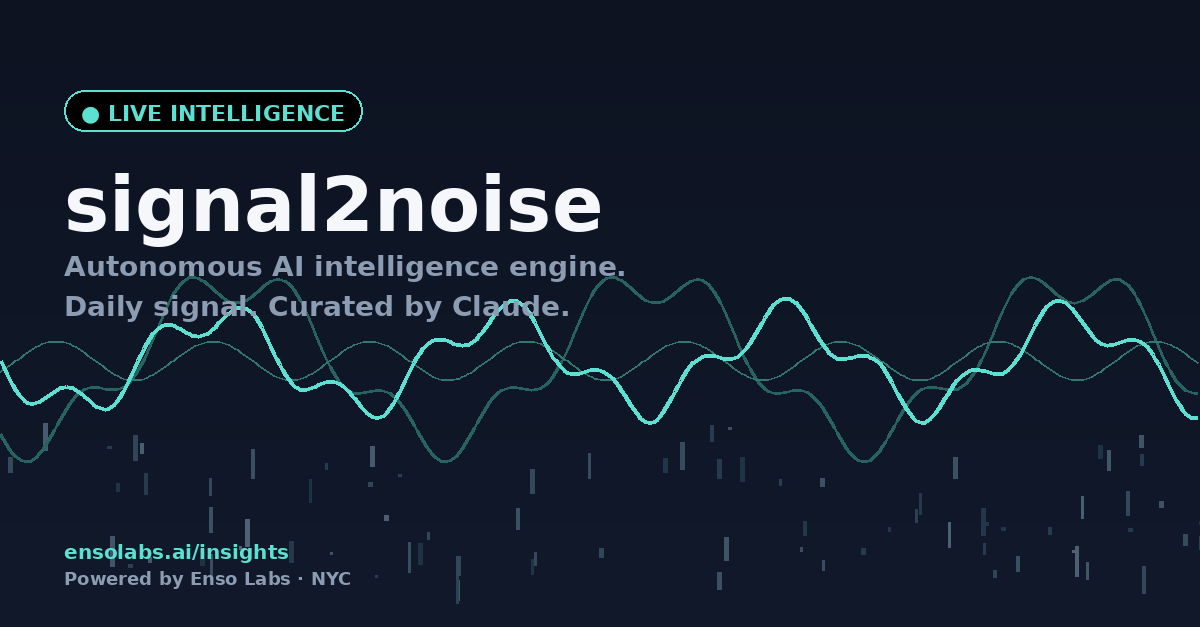
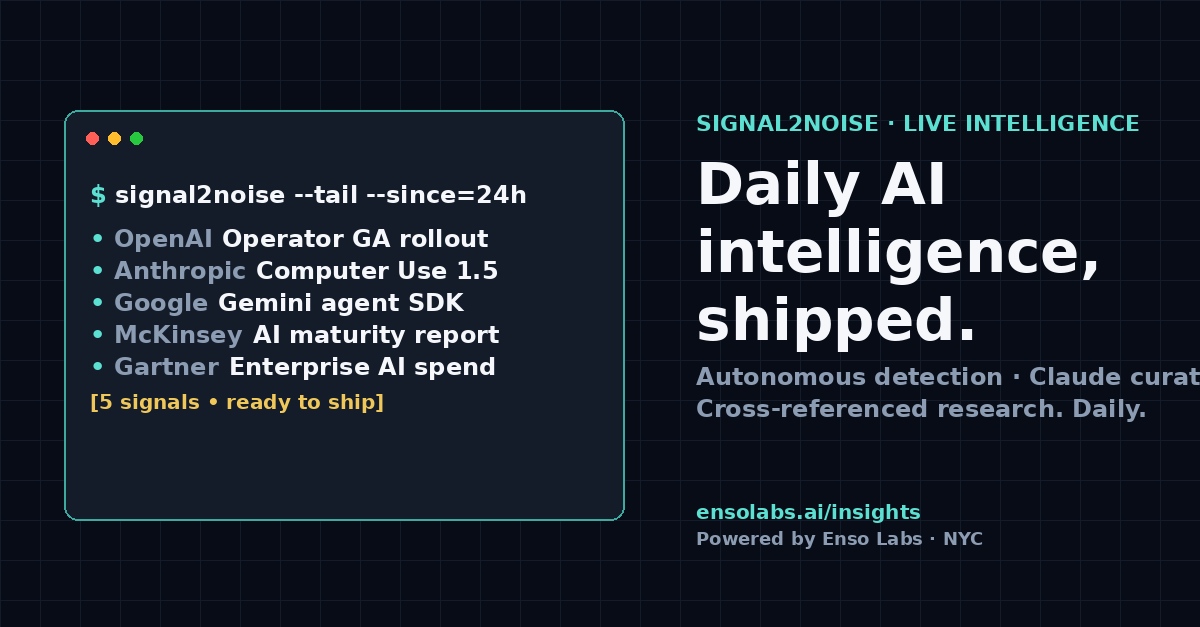
Rewrite Notion hackathon article with real career agent architecture — 5 tools, two-model pipeline, source tiers

diff --git a/lib/insights.ts b/lib/insights.ts
@@ -13,18 +13,30 @@ export type Insight = {
 export const INSIGHTS: Insight[] = [
   {
     slug: 'notion-hackathon-agent-distribution-problem',
-    title: 'We Built a Research Agent at Notion HQ. The Hardest Part Wasn\'t the AI.',
-    dek: 'At Notion\'s Developer Platform Hackathon, every team had access to the same models. The teams that won solved the distribution problem: getting intelligence to where people already work.',
+    title: 'We Built a Career Agent at Notion HQ in 24 Hours. Here\'s the Architecture.',
+    dek: 'Five Notion Worker tools, a two-model AI pipeline, and a source-tier scoring system — shipped at the Notion Developer Platform Hackathon during SF AI Week.',
     pillar: 'Build',
     date: '2026-05-19',
-    readingMinutes: 5,
+    readingMinutes: 6,
     body: [
-      'This weekend we were at Notion HQ in San Francisco for their Developer Platform Hackathon — two days of building on their new developer primitives with some of the sharpest agentic AI builders in the Bay Area. We shipped a research intelligence agent that syncs real-time market signals directly into Notion workspaces. No infrastructure to maintain, no separate dashboard to check. The intelligence just shows up where your team already works.',
-      'The surprise was not technical difficulty. The models are good enough. The APIs are clean. Notion\'s new platform removes the infrastructure barrier entirely — CLI plus your idea equals shipping. The surprise was how many teams hit the same wall we see in enterprise deployments: **the gap between "we have an AI tool" and "our team actually uses it" is a distribution problem, not a model problem.**',
-      'Every enterprise we work with has this pattern. They build a beautiful AI prototype. It works in a demo. Then adoption flatlines because the output lives in a separate tool, a separate tab, a separate workflow. The humans who are supposed to benefit from the intelligence never form the habit of checking it — because it is not where they already are.',
-      'The teams at the hackathon that built the most compelling projects all solved this the same way: they put the output inside the tool the user already had open. Not "go check the AI dashboard." Not "here\'s a link to the results." The intelligence appears in the workspace, in context, at the moment it is useful.',
-      'This is the thesis behind signal2noise — our daily AI market intelligence platform at signals.ensolabs.ai. We do not ask people to check another tool. We deliver signals where they already work. The Notion integration we built this weekend is the next step: the same intelligence, delivered directly into workspace pages your team reads every morning.',
-      'The pattern generalizes beyond Notion. For any enterprise AI deployment, the adoption question is not "is the model good enough?" It is "does the output show up where the human already is?" If the answer is no, adoption will fail regardless of model quality. **Distribution is the product.**',
+      'Last weekend we were at Notion HQ on Annie Street in San Francisco for their first Developer Platform Hackathon — two days of building on Notion Workers with some of the sharpest agentic AI builders in the Bay Area. We shipped a production-grade career intelligence agent: five tools, 487 lines of TypeScript, a full pipeline from job parsing to AI-tailored resume generation. The project is live on GitHub at github.com/nycsav/notion-career-agent.',
+      '## The Problem We Solved',
+      'Job seekers submit an average of 16 applications per week but spend less than 30 minutes customizing each one. Tailored resumes are 61% more likely to land interviews, but deep customization does not scale with manual effort. The existing tools are either spam cannons or glorified spreadsheets. We built a system that does the intelligence work — scanning, scoring, tailoring — while keeping the human in the loop for every decision that matters.',
+      '## Five Tools, One Pipeline',
+      'The career agent runs entirely inside a Notion workspace using Workers — sandboxed TypeScript functions that Notion executes on their infrastructure. No servers to manage, no deployment pipelines to maintain. We built five tools that chain together into an end-to-end career pipeline:',
+      '**scanJobs** parses job listings from LinkedIn email notifications, extracts structured data (title, company, location, salary, requirements), and scores each role against the user\'s career profile using Claude Haiku. Every job gets a match score from 0 to 100 with a written explanation of why it does or does not fit. Jobs scoring 75+ get flagged for action.',
+      '**tailorResume** is the heavy lifter. Give it a job listing and a base resume, and it generates an ATS-optimized resume and cover letter using Claude Sonnet — the stronger model, because resume quality directly affects conversion. It extracts and maps ATS keywords from the listing, reframes existing experience to match the role, and returns everything as structured data ready to save as linked Notion pages.',
+      '**getCareerInsight** turns the agent into a strategic career advisor. Salary negotiation data, interview prep, company research — direct and actionable, no filler. We used Haiku here because speed matters more than depth for quick Q&A.',
+      '**configureAgent** lets the user set automation preferences: copilot (suggestions only), autopilot (acts with confirmation), or autonomous (full auto). You configure scan cadence, match threshold, active job boards, notification channels, target roles, locations, and salary minimum. The agent adapts its behavior to your risk tolerance.',
+      '**getAgentStatus** provides pipeline analytics — how many jobs scanned, scored, applied to, interviewing, offered, rejected — filtered by time range. It is the control panel for understanding whether your job search machine is actually working.',
+      '## The Two-Model Architecture',
+      'We deliberately split the AI work across two Claude models. Haiku handles the high-volume, speed-sensitive operations: job scoring, career Q&A, and classification. Sonnet handles the high-stakes generation work: resume tailoring and cover letters. This is not about cost optimization — it is about matching model capability to task criticality. A wrong match score wastes a click. A weak resume wastes an interview opportunity.',
+      '## Source Tiers: Not All Applications Are Equal',
+      'We borrowed the source-tier ranking system from signal2noise, our market intelligence platform. The career agent classifies every job by how you found it: Tier 1 (direct referral, ~50% interview rate) through Tier 5 (cold apply, ~2%). This changes the agent\'s behavior — a Tier 1 referral with a 60 match score still gets priority over a Tier 5 cold apply with an 85. The system encodes what experienced job seekers already know intuitively: **who referred you matters more than how perfectly your resume matches.**',
+      '## Speed, Systems, Platform Fluency',
+      'Three things we proved at this hackathon. First, speed to production: we went from zero to five deployed Worker tools in under 24 hours, using Claude Code as the primary development environment. Second, systems thinking: the agent is not five independent tools — it is a pipeline with data flowing between stages, configurable automation levels, and status tracking. That is the architecture pattern we apply to every enterprise engagement. Third, platform portability: we have been running signal2noise on Firebase and Cloud Functions for months. Porting its intelligence patterns to Notion Workers took hours, not weeks. The design patterns transfer across any runtime.',
+      '## Why This Matters Beyond Hackathons',
+      'The career agent is a compressed case study of what we do at Enso Labs across every client engagement. We take a workflow that currently runs on human effort and spreadsheets, decompose it into discrete automation stages, insert AI at the points where it creates the most leverage, and keep humans in the loop where judgment matters. The 24-hour constraint just forced us to be ruthless about scope. Every enterprise AI deployment should be this focused.',
     ],
   },
   {

diff --git a/linkedin-post-notion-hackathon.md b/linkedin-post-notion-hackathon.md
@@ -1,29 +1,29 @@
-# LinkedIn Post — Notion Hackathon (May 19, 2026)
+# LinkedIn Post — Notion Hackathon Career Agent (May 19, 2026)
 
 ## Post Copy
 
-This weekend we were at Notion HQ for their Developer Platform Hackathon. We shipped a research intelligence agent that syncs market signals directly into Notion workspaces.
+This weekend at Notion HQ we built a career intelligence agent in 24 hours — 5 tools, 487 lines of TypeScript, a full pipeline from job scanning to AI-tailored resumes.
 
-The surprise wasn't technical. The models are good enough. The APIs are clean.
+The architecture:
 
-The surprise was how many teams hit the same wall we see in every enterprise AI deployment: the gap between "we have an AI tool" and "our team actually uses it."
+→ scanJobs: parses LinkedIn notifications, scores every role 0-100 against your profile using Claude
+→ tailorResume: generates ATS-optimized resume + cover letter matched to specific listings
+→ configureAgent: copilot, autopilot, or autonomous mode — you set your risk tolerance
+→ Source-tier ranking: a Tier 1 referral at 60 match score beats a Tier 5 cold apply at 85
 
-That's not a model problem. It's a distribution problem.
+We used two Claude models deliberately. Haiku for speed-sensitive scoring. Sonnet for high-stakes resume generation. Match model capability to task criticality.
 
-Every enterprise we work with has this pattern — they build a beautiful prototype, it works in a demo, then adoption flatlines because the output lives in a separate tool nobody checks.
+The whole thing runs on Notion Workers — no servers, no infra, deployed from a CLI. This is the same pattern we apply to every enterprise AI engagement at Enso Labs: decompose the workflow, insert AI where it creates the most leverage, keep humans in the loop where judgment matters.
 
-The teams that built the most compelling projects at the hackathon all solved this the same way: put the intelligence where the user already is. Not "go check the AI dashboard." The output appears in context, at the moment it's useful.
+GitHub: github.com/nycsav/notion-career-agent
+Full writeup: ensolabs.ai/insights/notion-hackathon-agent-distribution-problem
 
-Distribution is the product.
-
-Full writeup → ensolabs.ai/insights/notion-hackathon-agent-distribution-problem
-
-#AI #AgenticAI #EnterpriseAI #NotionAPI #AIAdoption
+#AI #AgenticAI #NotionAPI #ClaudeAI #CareerTech #EnterpriseAI
 
 ## Link to Include
 https://ensolabs.ai/insights/notion-hackathon-agent-distribution-problem
 
 ## Photos to Attach
 - Notion Hackathon photos (from camera roll)
-- Workato / AI House photos
-- LangChain event photos
+- Building at Notion HQ / team photos
+- Architecture diagram (optional — can screenshot from GitHub README)